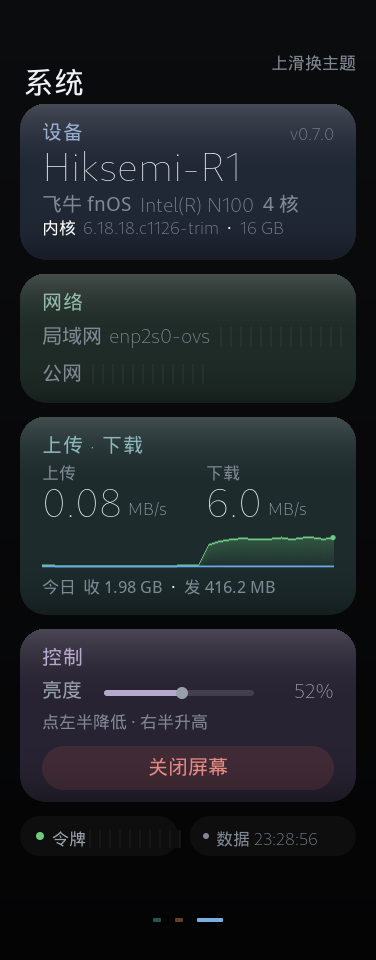
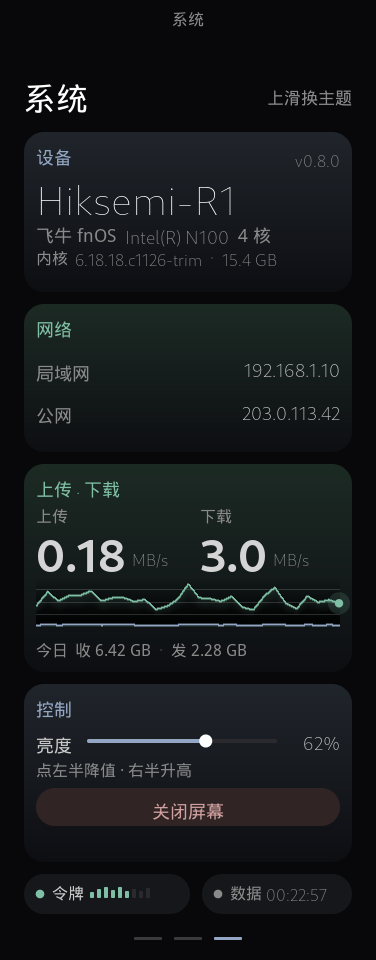
docs: v0.8.0 三页截图重拍，README 过期描述一并修正
截图：preview -all -interval 2000，按真机 2 秒采样节奏跑满 60 秒
曲线（不是空跑出来的直线）。

脱敏：上一版把 IP 抹成背景色 + 一串小点，远看像渲染出错。这次改成
抹掉后用同款字体（Cantarell-Light 18px）、同样右对齐重画一组 RFC 5737
文档保留地址。面板令牌按设计本就只显示「已设置 / 未设置」，明文从不
上屏，无需遮蔽。

README 修正的过期描述：
- 大时钟 112px -> 100px（FzClock 实际值）
- 三态色「>50 琥珀黄 / >=90 砖红」->「>=50 沙金 / >=80 珊瑚」
- CPU 占用补上实测区间（1.6%~2.3%，基线 2.1%）
- 补一节可读性说明，讲清楚数字为什么不是纯白

diff --git a/README.md b/README.md
@@ -6,20 +6,20 @@
 
 ## 界面预览
 
-### v0.7.0 · Material You 三页版（当前）
+### v0.8.0 · Material You 三页版（当前）
 
 | 环境（主屏） | 详情 | 系统 |
 |:---:|:---:|:---:|
 | ![环境](docs/screenshots/env.png) | ![详情](docs/screenshots/detail.png) | ![系统](docs/screenshots/system.png) |
 
-*三页触摸翻页 · 112px 大时钟+天气融合 · 首屏放趋势（CPU 60 秒曲线）、每核明细在详情页 · 每卡一色的低饱和 tonal 配色 · 截图中的 IP 与面板令牌已单独打码*
+*三页触摸翻页 · 100px 大时钟+天气融合 · 首屏放趋势（CPU 60 秒曲线）、每核明细在详情页 · 每卡一色的低饱和 tonal 配色 · 读数与进度条共用一套阈值色（<50 绿 / ≥50 沙金 / ≥80 珊瑚）· 截图中局域网与公网地址已替换为 RFC 5737 文档保留地址（`192.168.1.10` / `203.0.113.42`），面板令牌按设计本就只显示「已设置 / 未设置」，明文从不上屏*
 
 **对比旧版五页（v0.3.0 及以前）的变化**：
 
 | | 旧版五页 | 新版三页 |
 |---|---|---|
 | 页面结构 | 概览/性能/硬盘/网络/系统 | 环境/详情/系统 |
-| 首屏主角 | 46px 顶栏小时钟 + 指标卡 | 112px 大时钟 + 天气融合（环境屏风格） |
+| 首屏主角 | 46px 顶栏小时钟 + 指标卡 | 100px 大时钟 + 天气融合（环境屏风格） |
 | 负载表达 | 双环仪表 + 每核百分比 | 大数字 + 细进度条 + 每核条 |
 | 配色 | 单强调色 + 语义色描边 | 每卡一个低饱和色相（tonal 卡面） |
 | 上下行速率 | 数字行 | 独立大卡（大数字 + 双曲线 + 今日累计） |
@@ -38,9 +38,10 @@
 
 | 方向 | 内容 |
 |---|---|
-| **性能** | CPU 占用从约 89% 优化到 **单核 2.1%**（跳帧渲染 + 局部重绘 + 圆角遮罩缓存 + 亚像素插值 + 采样减频） |
+| **性能** | CPU 占用从约 89% 优化到 **单核约 2%**（60 秒窗口实测在 1.6%~2.3% 之间波动，长期基线 2.1%；跳帧渲染 + 局部重绘 + 圆角遮罩缓存 + 亚像素插值 + 采样减频） |
 | **安全** | Web 面板令牌鉴权（首次启动自动生成、屏幕系统页显示）、亮度/风扇曲线等接口输入校验、修复磁盘监控数据竞争（`-race` 验证） |
-| **体验** | 负载三态色（CPU / 内存 / 硬盘容量：≤50% 绿 · >50% 琥珀黄 · ≥90% 砖红，颜色即负载读数）、天气图标静态化（相位冻结）、屏幕夜间自动调暗（18:00–06:00 背光降至 `night_brightness`）、配置文件保存保留注释、崩溃自愈（systemd 加固） |
+| **体验** | 负载阈值色（读数与进度条同一套：**<50% 常态 · ≥50% 沙金 · ≥80% 珊瑚**；进度条常态为薄荷绿，不再有「黄字配绿条」）、天气图标静态化（相位冻结）、屏幕夜间自动调暗（18:00–06:00 背光降至 `night_brightness`）、配置文件保存保留注释、崩溃自愈（systemd 加固） |
+| **可读性** | 指标数字常态色降到 `#D4D4D4`（纯白在 376×960 小屏上会「发光」，降一档后不再抢标题与点缀色的注意力）；时钟、卡片标题、主机名仍为纯白，保留信息层次顶端 |
 | **可靠性** | systemd 看门狗（`Type=notify` + `WatchdogSec=30`，主循环卡死 30 秒内自动重启，不再「进程活着但画面定格」）、smartctl/lsblk 硬超时（D 状态进程不会卡住渲染）、采样移到后台协程 + 不可变快照（`-race` 实测归零）、GitHub Actions 五道门（fmt/vet/test/test -race/build） |
 | **代码** | 渲染器模块化拆分（canvas / textrender / theme / widgets）、删除无人消费的死代码 |
 
@@ -129,6 +130,7 @@ docker compose up -d screen   # privileged + /dev/fb0 + host 网络
 
 完整版本历史见 [CHANGELOG.md](CHANGELOG.md)(每个版本打 git tag 并发布 [Release](https://github.com/mingyangbest/r1-frontscreen/releases))。最近更新:
 
+- **v0.8.0 · 2026-10-31**:进度条与读数统一着色——CPU 每核条、磁盘容量条都跟随读数跳色（`barColor` / `diskBarColor`，与 `valColor` 共用阈值），不再出现「86% 的黄字配一条绿条」；取消四核身份色（原 C0~C3 各一色），红色只表示 ≥80%，C1 的珊瑚不再与告警色撞车；网络卡改两端对齐（标签贴左、地址贴右，原先右侧空 150px 等于没对齐）；指标数字常态色 `#E6E6E6` → `#D4D4D4`
 - **v0.7.0 · 2026-10-29**:首页删除「存储」卡（容量一年看两次，却占着 137px），腾出的高度给网络曲线（40→122px，微弱波动终于看得出形状）；系统页「设备」卡补 CPU 型号与内核串（读 `/proc`，读不到显示 `—`）；底部页签间距 7→14px、点宽 7→8px，三个点不再挤成一坨
 - **v0.6.2 · 2026-10-29**:修复翻页重播入场编排导致的画面抖动——手指刚把页面推到位、内容又整体淡入一遍；入场编排收窄为仅冷启动播放一次
 - **v0.6.1 · 2026-10-29**:动效与质感——卡面顶部提亮/底部压暗渐变烘焙（每帧只 blit）、内存/存储/CPU 数值滚动、点按卡片亮度脉冲；CPU 占用最重场景（连续翻页 20 次）整机 4.23%

diff --git a/CHANGELOG.md b/CHANGELOG.md
@@ -6,6 +6,42 @@
 
 基于上游 [lemon6515/r1-toolbox-go](https://github.com/lemon6515/r1-toolbox-go) 增强 fork。
 
+## [v0.8.0] - 2026-10-31
+
+阈值色统一到「数字 + 图形」两处，外加两处排版修正。
+
+### 变更
+
+- **进度条跟随读数着色**。此前只有数字会变色、条子永远是薄荷绿，于是
+  磁盘卡出现「86% 的沙金字配一条绿条」这种自相矛盾的画面。新增
+  `barColor`（CPU 每核条）与 `diskBarColor`（磁盘容量条），与数字用的
+  `valColor` 共用同一组阈值：`<50%` 常态、`>=50%` 沙金、`>=80%` 珊瑚。
+  磁盘沿用其一档制（只有 80%，不要红色）—— 容量 80% 是「该清理了」，
+  不是「要出事了」。
+- **取消四核身份色**。原先 C0~C3 各配一个固定色（灰蓝 / 珊瑚 / 浅灰蓝 /
+  灰绿），但 C1 那个珊瑚正好等于 `>=80%` 的告警色：45% 时它就是红的，
+  红色因此不再意味着「出事了」。现在条子的颜色只编码状态、不编码身份，
+  几号核看左边的 `C0`~`C3` 标签即可。
+- **网络卡改两端对齐**。上一版是「标签左对齐 + 地址从固定列起」，地址
+  确实落在同一条竖线上，但右侧空出约 150px，卡片看着没被撑开，等于没
+  对齐。现在两行各自贴住卡内左右边距，左边缘齐、右边缘也齐。
+- **指标数字降一档亮度**：`#E6E6E6` → `#D4D4D4`。纯白在 376×960 这块屏
+  上会「发光」，一排大数字看久了扎眼。212 是实测下限：再往下就与次白
+  `#C9C9C9` 撞在一起，大数字与副文案会糊成一片。时钟、卡片标题、主机名
+  仍为纯白 —— 全屏总得留一个最亮的位置。
+
+### 文档
+
+- README 三张预览图换成本版实机截图（`preview -all -interval 2000`，
+  按真机 2 秒采样节奏跑满 60 秒曲线，不是空跑的直线）。
+- 脱敏做法改了：上一版把 IP 抹成背景色 + 一串小点，远看像渲染出错。
+  这次改成抹掉后用同款字体（Cantarell-Light 18px）、同样右对齐重画一组
+  RFC 5737 文档保留地址 —— 版面完整、一眼能看出这是截图，又不泄露真实
+  地址。面板令牌按设计本就只显示「已设置 / 未设置」，明文从不上屏，
+  无需遮蔽。
+- README 中已过时的描述一并修正：大时钟 112px → 100px、三态色
+  「>50 黄 / ≥90 红」→「≥50 沙金 / ≥80 珊瑚」、CPU 占用补上实测区间。
+
 ## [v0.7.0] - 2026-10-29
 
 首页与系统页的信息结构调整（2026-10-29 三项体验反馈）。
